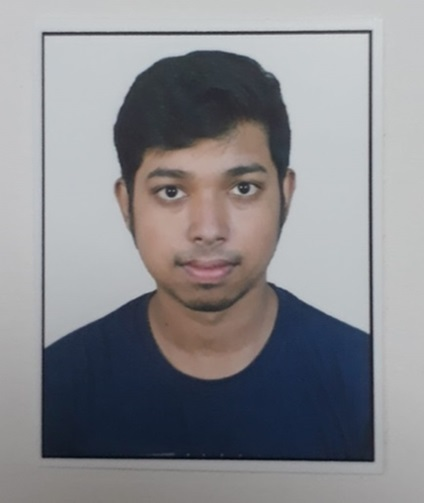
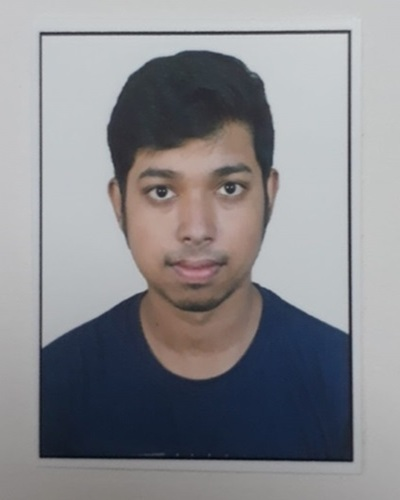
resized images for display and uniformity

diff --git a/templates/index.html b/templates/index.html
@@ -33,6 +33,8 @@
           <h3>Result</h3>
           <div class="div-result">
             <img
+              width="480"
+              height="360"
               class="loginavatar"
               id="loginavatar"
               src="{{ url_for('static', filename = 'images/placeholderavatar.png')}}"

diff --git a/static/css/styles.css b/static/css/styles.css
@@ -86,6 +86,7 @@ body {
  display: block;
  margin: auto;
  width: 100%;
+ height: 90%;
  border-radius: 10px;
 }
 .results {
